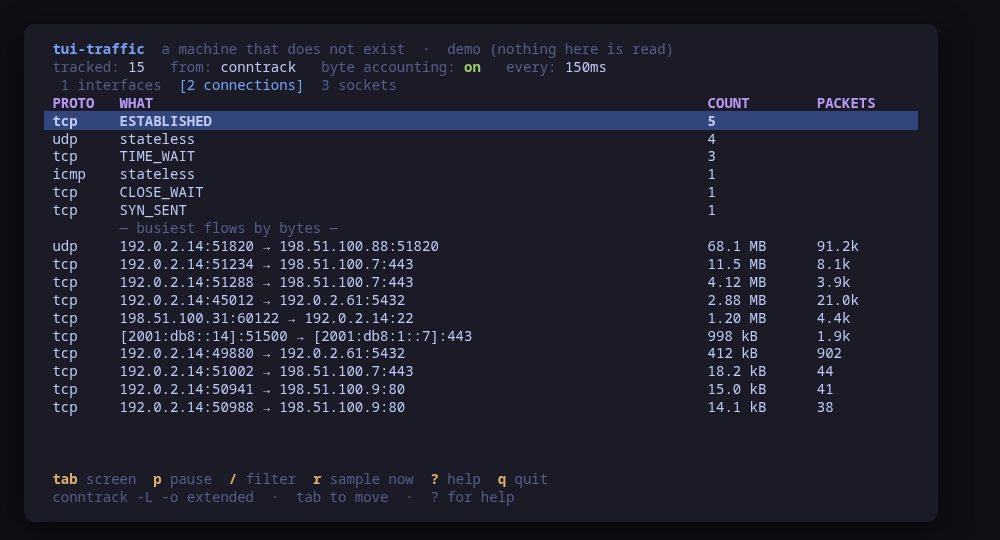
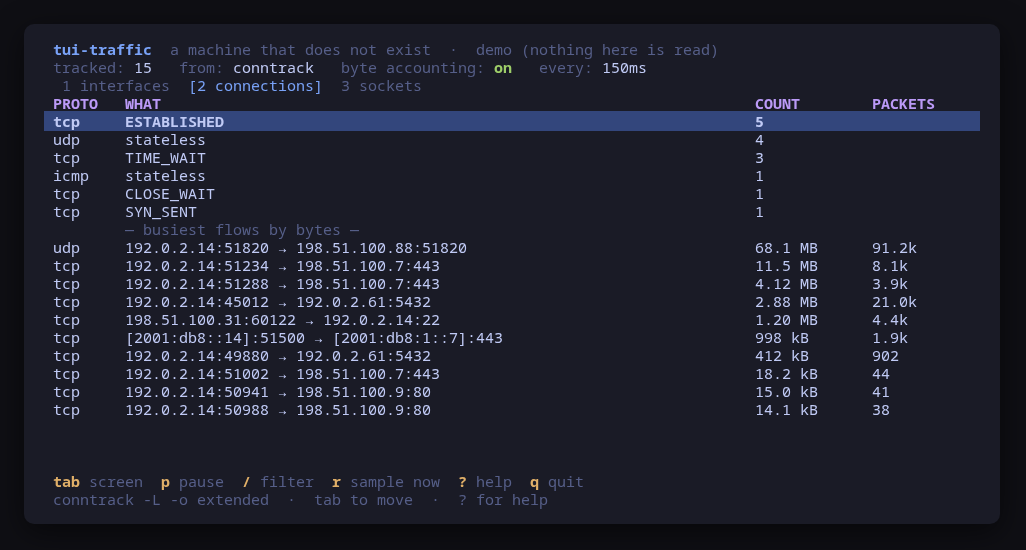
0.1.2: tui-kit v0.4.4
tui-traffic 0.1.2 moves to tui-kit v0.4.4: every probe now runs in its own session without a controlling terminal, so nothing can wait on a prompt hidden behind the UI, and a failed read reports its meaningful line, cleaned of escape codes. The README screenshots are re-rendered with continuous box borders and the install snippet points at this release.

Claude-Session: https://claude.ai/code/session_01MbCfX3T8khyd9hsrN5kMo3

diff --git a/README.md b/README.md
@@ -155,7 +155,7 @@ available with its first release.
 ### Any distribution, static binary — coming soon
 
 ```sh
-curl -fsSL https://github.com/tui-tools/tui-traffic/releases/download/v0.1.1/tui-traffic_0.1.1_linux_amd64.tar.gz | tar -xz tui-traffic
+curl -fsSL https://github.com/tui-tools/tui-traffic/releases/download/v0.1.2/tui-traffic_0.1.2_linux_amd64.tar.gz | tar -xz tui-traffic
 sudo install -m0755 tui-traffic /usr/local/bin/tui-traffic
 ```
 
